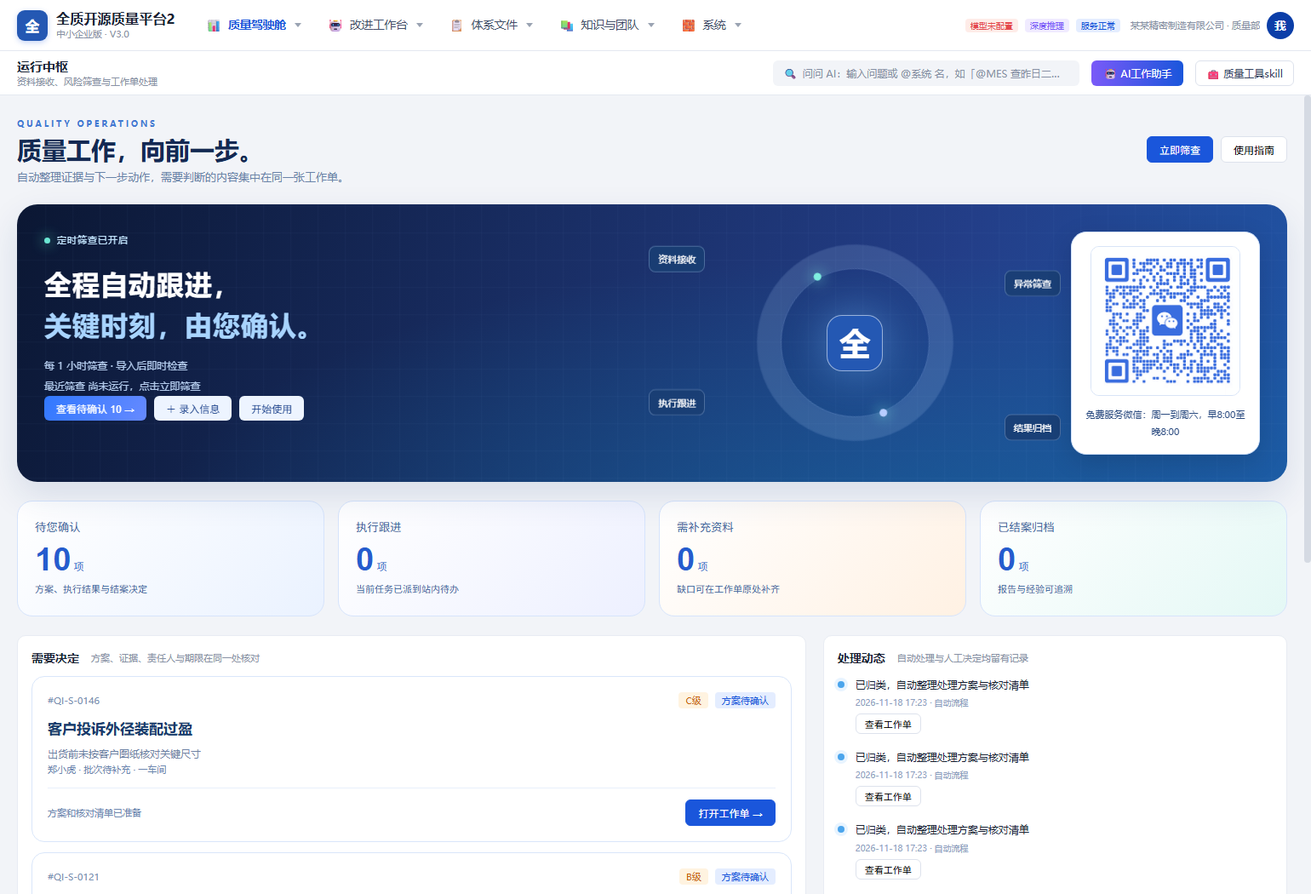
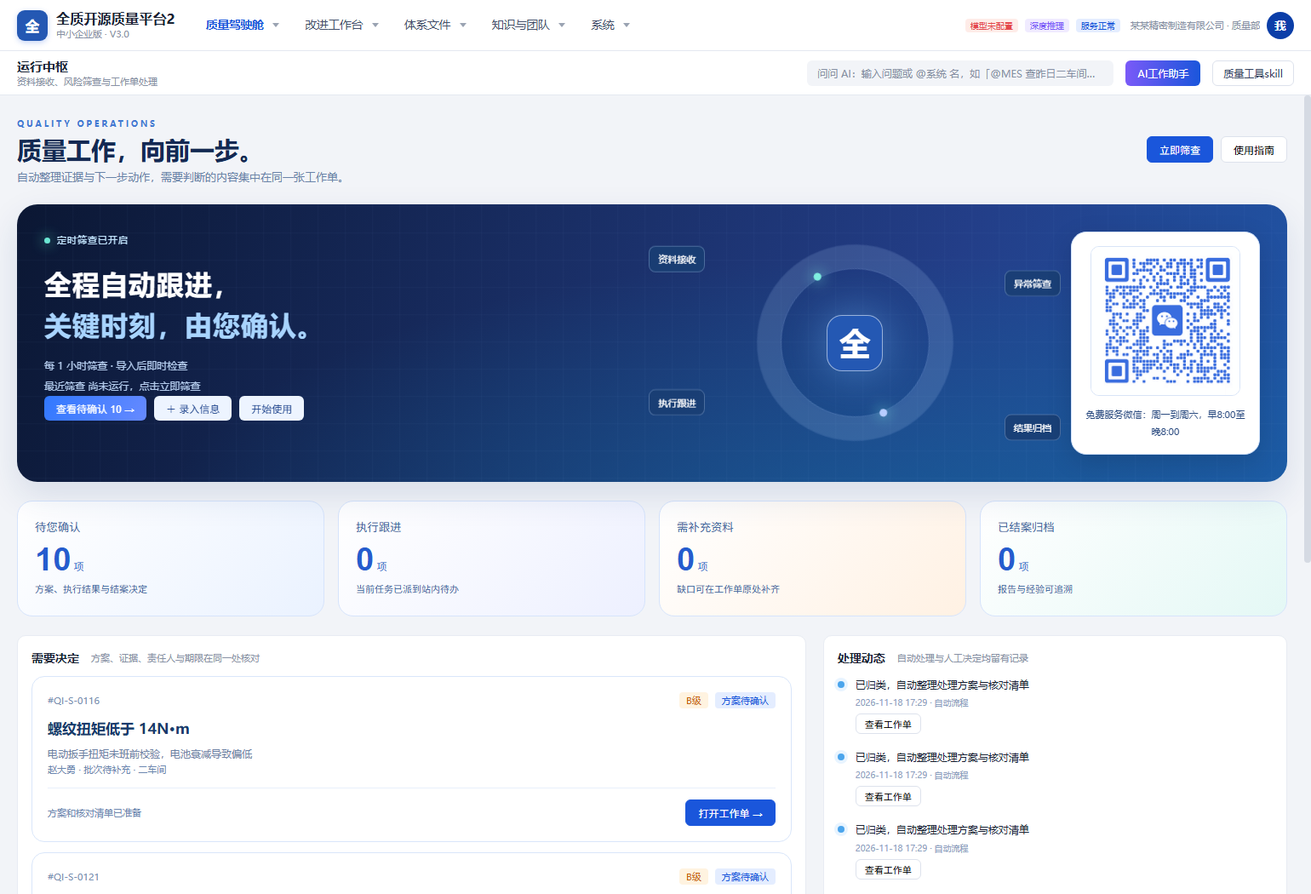
Remove decorative emoji from navigation and controls

Changed region(s): [[0.5922, 0.061, 0.9351, 0.1219], [0.1558, 0.0, 0.4987, 0.0305], [0.0312, 0.7924, 0.187, 0.8838]]

diff --git a/public/index.html b/public/index.html
@@ -22,62 +22,62 @@
 
     <nav class="nav" id="nav">
       <div class="nav-menu" id="navCockpit">
-          <div class="nav-item nav-parent has-active"><span class="ico">📊</span>质量驾驶舱<span class="caret"></span></div>
+          <div class="nav-item nav-parent has-active">质量驾驶舱<span class="caret"></span></div>
           <div class="nav-drop">
-            <div class="nav-item active" data-page="runHub"><span class="ico">🛰</span>运行中枢</div>
-            <div class="nav-item" data-page="confirmFix"><span class="ico">🧭</span>确认与纠正</div>
-            <div class="nav-item" data-page="followUp"><span class="ico">📌</span>执行跟进</div>
-            <div class="nav-item" data-page="intakeTrace"><span class="ico">📥</span>接收与追溯</div>
-            <div class="nav-item" data-page="expStandard"><span class="ico">📚</span>经验与标准</div>
+            <div class="nav-item active" data-page="runHub">运行中枢</div>
+            <div class="nav-item" data-page="confirmFix">确认与纠正</div>
+            <div class="nav-item" data-page="followUp">执行跟进</div>
+            <div class="nav-item" data-page="intakeTrace">接收与追溯</div>
+            <div class="nav-item" data-page="expStandard">经验与标准</div>
           </div>
         </div>
 
       <div class="nav-menu">
-        <div class="nav-item nav-parent"><span class="ico">🤖</span>改进工作台<span class="caret">▾</span></div>
+        <div class="nav-item nav-parent">改进工作台<span class="caret">▾</span></div>
         <div class="nav-drop">
-          <div class="nav-item" data-page="opsWorkbench"><span class="ico">🤖</span>AI 改进工作台<span class="badge blue">AI</span></div>
-          <div class="nav-item" data-page="problem"><span class="ico">⚠</span>质量问题库</div>
-          <div class="nav-item" data-page="eightd"><span class="ico">🧩</span>质量改进项目</div>
-          <div class="nav-item" data-page="qrqc"><span class="ico">⚡</span>QRQC 快速响应</div>
-          <div class="nav-item" data-page="report"><span class="ico">📑</span>报表中心</div>
+          <div class="nav-item" data-page="opsWorkbench">AI 改进工作台</div>
+          <div class="nav-item" data-page="problem">质量问题库</div>
+          <div class="nav-item" data-page="eightd">质量改进项目</div>
+          <div class="nav-item" data-page="qrqc">QRQC 快速响应</div>
+          <div class="nav-item" data-page="report">报表中心</div>
         </div>
       </div>
 
       <!-- 数据分析组：本发行版只提供中小企业版，故此组默认隐藏（保留结构以便需要时启用） -->
       <div class="nav-menu" id="navAnalysis" style="display:none;">
-        <div class="nav-item nav-parent"><span class="ico">📈</span>数据分析<span class="caret">▾</span></div>
+        <div class="nav-item nav-parent">数据分析<span class="caret">▾</span></div>
         <div class="nav-drop">
-          <div class="nav-item" data-page="spc"><span class="ico">📈</span>SPC 智能判异</div>
-          <div class="nav-item" data-page="market"><span class="ico">🌍</span>市场质量与客诉</div>
-          <div class="nav-item" data-page="benefit"><span class="ico">💰</span>改进收益核算</div>
+          <div class="nav-item" data-page="spc">SPC 智能判异</div>
+          <div class="nav-item" data-page="market">市场质量与客诉</div>
+          <div class="nav-item" data-page="benefit">改进收益核算</div>
         </div>
       </div>
 
       <!-- 体系文件（手册 → 程序文件 → 三层次文件） -->
       <div class="nav-menu" id="navQms">
-        <div class="nav-item nav-parent"><span class="ico">📋</span>体系文件<span class="caret">▾</span></div>
+        <div class="nav-item nav-parent">体系文件<span class="caret">▾</span></div>
         <div class="nav-drop">
-          <div class="nav-item" data-page="qmsManual"><span class="ico">📄</span>一键生成手册</div>
-          <div class="nav-item" data-page="qmsProc"><span class="ico">📑</span>一键生成程序文件</div>
-          <div class="nav-item" data-page="qmsTier3"><span class="ico">🗂</span>一键生成三层次文件</div>
+          <div class="nav-item" data-page="qmsManual">一键生成手册</div>
+          <div class="nav-item" data-page="qmsProc">一键生成程序文件</div>
+          <div class="nav-item" data-page="qmsTier3">一键生成三层次文件</div>
         </div>
       </div>
 
       <div class="nav-menu">
-        <div class="nav-item nav-parent"><span class="ico">📚</span>知识与团队<span class="caret">▾</span></div>
+        <div class="nav-item nav-parent">知识与团队<span class="caret">▾</span></div>
         <div class="nav-drop">
-          <div class="nav-item" data-page="knowledge"><span class="ico">📚</span>知识库与经验传承</div>
-          <div class="nav-item" data-page="growth"><span class="ico">🎓</span>员工成长中心</div>
+          <div class="nav-item" data-page="knowledge">知识库与经验传承</div>
+          <div class="nav-item" data-page="growth">员工成长中心</div>
         </div>
       </div>
 
       <div class="nav-menu">
-        <div class="nav-item nav-parent"><span class="ico">🧱</span>系统<span class="caret">▾</span></div>
+        <div class="nav-item nav-parent">系统<span class="caret">▾</span></div>
         <div class="nav-drop">
-          <div class="nav-item" data-page="arch"><span class="ico">🧱</span>DeepSeek 插件架构</div>
-          <div class="nav-item" data-page="mobile"><span class="ico">📱</span>移动端适配</div>
-          <div class="nav-item" data-page="audit"><span class="ico">🔍</span>审计日志</div>
-          <div class="nav-item" data-page="settings"><span class="ico">⚙</span>系统设置</div>
+          <div class="nav-item" data-page="arch">DeepSeek 插件架构</div>
+          <div class="nav-item" data-page="mobile">移动端适配</div>
+          <div class="nav-item" data-page="audit">审计日志</div>
+          <div class="nav-item" data-page="settings">系统设置</div>
         </div>
       </div>
     </nav>
@@ -96,9 +96,9 @@
         <div class="topbar-title" id="pgTitle">质量驾驶舱</div>
         <div class="topbar-sub" id="pgSub">加载中…</div>
       </div>
-      <div class="searchbox" data-act="openSearch"><span class="ic">🔍</span><span class="tx">问问 AI：输入问题或 @系统 名，如「@MES 查昨日二车间报废」</span></div>
-      <div class="ai-btn" data-act="goto" data-args='{"page":"aiwb"}'>🤖 AI工作助手</div>
-      <div class="qt-btn" data-act="qtOpen">🧰 质量工具skill</div>
+      <div class="searchbox" data-act="openSearch"><span class="tx">问问 AI：输入问题或 @系统 名，如「@MES 查昨日二车间报废」</span></div>
+      <div class="ai-btn" data-act="goto" data-args='{"page":"aiwb"}'>AI工作助手</div>
+      <div class="qt-btn" data-act="qtOpen">质量工具skill</div>
     </div>
     <div class="content" id="content"></div>
   </div>
@@ -107,7 +107,7 @@
 <!-- 质量工具菜单（三列） -->
 <div class="qt-overlay" id="qtOverlay">
   <div class="qt-panel">
-    <div class="qt-head"><span class="t">🧰 质量工具 skill</span><span class="s">点击即用 · 数据类工具由统计引擎实算</span><span class="dm-close" style="margin-left:auto;" data-act="qtClose">✕</span></div>
+    <div class="qt-head"><span class="t">质量工具 skill</span><span class="s">点击即用 · 数据类工具由统计引擎实算</span><span class="dm-close" style="margin-left:auto;" data-act="qtClose">✕</span></div>
     <div class="qt-grid" id="qtGrid"></div>
     <div class="qt-foot">带 <b>∑</b> 标记的工具会真实计算并返回结果（可用平台已有数据或您输入的数据）；其余工具由 AI 智能体引导完成。</div>
   </div>

diff --git a/public/js/pages-system.js b/public/js/pages-system.js
@@ -87,7 +87,7 @@
         `<div class="form-row"><div class="fl">当前模型<small>插件默认锁定 DeepSeek-V4.1-Flash；不可用时自动回落 Harness 当前模型，也可用环境变量 QIP_LLM_MODEL 覆盖</small></div><div class="fc"><b>${esc(llm.modelLabel || '未连接')}</b></div></div>
         <div class="form-row"><div class="fl">调用链路<small>真实模型调用，不是预设话术</small></div><div class="fc"><code>页面 → 插件 Host 半 → ctx.llm → ${esc(llm.provider || 'DeepSeek')} / ${esc(llm.model || '')}</code></div></div>
         <div class="form-row"><div class="fl">说明</div><div class="fc" style="color:#5e6b85;line-height:1.9;">${esc(llm.description || '')}<br>本插件不需要单独填写 API Key 或 Base URL：模型接入、密钥与账号统一由 Harness 管理，插件只负责调用。</div></div>
-        <div style="margin-top:12px;display:flex;gap:8px;">${act('🔌 测试连通性（真实调用一次模型）', 'testLlm', {}, 'btn btn-ai')}</div>
+        <div style="margin-top:12px;display:flex;gap:8px;">${act('测试连通性（真实调用一次模型）', 'testLlm', {}, 'btn btn-ai')}</div>
         ${SetState.testing ? '<div class="test-steps"><div class="empty"><span class="spin"></span>　正在测试（会真实调用模型，约 5~20 秒）…</div></div>' : ''}
         ${SetState.steps ? '<div class="test-steps">' + SetState.steps.map((st) => `<div class="test-step"><span class="${st.ok ? 'ts-ok' : 'ts-fail'}">${st.ok ? '✓' : '✗'}</span><div><b>${esc(st.name)}</b><div style="color:#5e6b85;margin-top:2px;">${esc(st.detail)}</div><div style="color:#8791a5;font-size:11px;">${st.ms}ms</div></div></div>`).join('') + '</div>' : ''}`)}
 
@@ -104,7 +104,7 @@
           判异预警：<b>ABC 级质量问题实时推送</b><br>
           报告草稿默认汇报：<b>质量部部长</b>
         </div></div>
-        <div style="margin-top:12px;">${act('💾 保存护栏设置', 'saveSettings', { section: 'agent' }, 'btn btn-primary')}</div>`)}
+        <div style="margin-top:12px;">${act('保存护栏设置', 'saveSettings', { section: 'agent' }, 'btn btn-primary')}</div>`)}
 
       ${card('③ 插件总线配置', '本地数据仓 ↔ HTTP 直连 可切换',
         table(['插件', '说明', '模式', '启用', '接口地址', ''],
@@ -128,13 +128,13 @@
           <b>表行数：</b>${Object.entries(dbStatus.tables || {}).map(([k, v]) => k + ' ' + v).join(' · ')}　（另有 JSON 快照用于备份）
         </div>` : ''}
         <div style="display:flex;gap:8px;flex-wrap:wrap;margin-bottom:12px;">
-          ${act('📥 导入 Excel / CSV（测量数据）', 'importFile', { target: 'measurements' }, 'btn btn-primary')}
-          ${act('📥 导入问题清单', 'importFile', { target: 'issues' }, 'btn')}
-          ${act('📥 导入 AI 质检缺陷', 'importFile', { target: 'defects' }, 'btn')}
+          ${act('导入 Excel / CSV（测量数据）', 'importFile', { target: 'measurements' }, 'btn btn-primary')}
+          ${act('导入问题清单', 'importFile', { target: 'issues' }, 'btn')}
+          ${act('导入 AI 质检缺陷', 'importFile', { target: 'defects' }, 'btn')}
         </div>
         <div style="display:flex;gap:8px;flex-wrap:wrap;">
-          ${act('🔄 重建初始数据', 'resetData', {}, 'btn')}
-          ${act('🧹 清空业务数据（保留模型配置）', 'clearData', {}, 'btn')}
+          ${act('重建初始数据', 'resetData', {}, 'btn')}
+          ${act('清空业务数据（保留模型配置）', 'clearData', {}, 'btn')}
         </div>
         <div style="font-size:11.5px;color:#8791a5;margin-top:10px;line-height:1.9;">
           <b>导入格式说明：</b>Excel 第一行为表头，平台会自动识别中文/英文字段名（如「时间/测量值/特性编号/产品/车间/批号/供应商/班次/操作者/VIN」）。

diff --git a/public/js/tool-wizards.js b/public/js/tool-wizards.js
@@ -169,7 +169,7 @@
 
   /** 结果区底部的两个动作按钮 */
   function resultTail(tool, args) {
-    return `<div style="margin-top:12px;display:flex;gap:8px;">${act('让 AI 解读这个结果', 'wzInterpret', { tool: tool, args: JSON.stringify(args).slice(0, 1500) }, 'btn btn-ai')}${act('⬇ 下载结果 CSV', 'wzExport', {}, 'btn')}</div>`;
+    return `<div style="margin-top:12px;display:flex;gap:8px;">${act('让 AI 解读这个结果', 'wzInterpret', { tool: tool, args: JSON.stringify(args).slice(0, 1500) }, 'btn btn-ai')}${act('下载结果 CSV', 'wzExport', {}, 'btn')}</div>`;
   }
 
   /* ---------------- 结果导出 ---------------- */
@@ -330,7 +330,7 @@
         return `<div class="form-row"><div class="fl">${esc(f.label)}${f.required ? ' <span style="color:#e5484d;">*</span>' : ''}</div><div class="fc">${ctrl}</div></div>`;
       }).join('');
     modal({
-      width: 'wide', title: '🧰 ' + w.title, sub: brand() + ' · 质量工具',
+      width: 'wide', title: w.title, sub: brand() + ' · 质量工具',
       body: `<div id="wzForm">${body}</div><div id="wzResult" style="margin-top:16px;"></div>`,
       footer: `${act('关闭', '__closeModal', {}, 'btn')}${act('使用 AI 智能体完成', 'wzAi', { key }, 'btn')}${act('▶ 计算', 'wzRun', { key }, 'btn btn-primary')}`,
     });
@@ -461,23 +461,6 @@
     return String(s || '').split(/[\s,，;；\n\t]+/).map((x) => Number(x)).filter((x) => Number.isFinite(x));
   }
 
-  // 每个 skill 一个独立图标（按名称关键字匹配，避免全部用同一个机器人脸）
-  // 顺序即优先级：长词/专有词写在前面，避免「因果图根因分析」被「根因」先匹配
-  const ICON_RULES = [
-    [/8D/, '🎯'], [/FMEA|失效模式/, '⚠'], [/标准条款|条款检索/, '📖'], [/海龟/, '🐢'], [/质量成本/, '💰'],
-    [/甘特/, '📅'], [/过程能力|Cpk|Ppk/, '📐'], [/人机料法环|4M/, '🧩'], [/变化点/, '🔄'], [/5W2H/, '🧾'],
-    [/因果图|鱼骨/, '🐟'], [/5Why|根因/, '❓'], [/假设检验/, '⚖'], [/方差/, '📊'], [/回归/, '📈'],
-    [/检查表/, '✅'], [/分层/, '🗂'], [/排列图|帕累托/, '📶'], [/直方图/, '🔔'], [/控制图|SPC/, '📉'],
-    [/散点/, '✳'], [/关联图/, '🕸'], [/系统图/, '🌳'], [/矩阵数据分析/, '🧮'], [/矩阵图/, '▦'],
-    [/PDPC/, '🚦'], [/箭条/, '🏹'], [/KJ/, '🗃'], [/DMAIC|六西格玛/, '🌀'], [/GR&R|GRR/, '📏'],
-    [/MSA|偏倚|线性|稳定性/, '🎚'], [/GD&T|几何尺寸|形位公差/, '🔧'], [/QFD|质量功能展开|质量屋/, '🏠'], [/DOE|试验设计/, '🧬'],
-  ];
-  function iconFor(name) {
-    const n = String(name || '');
-    for (const [re, ico] of ICON_RULES) if (re.test(n)) return ico;
-    return '🧰';
-  }
-
   // 两套版式提供同一套工具（34 项），不做删减、也不打角标
   function menuItems() {
     return [].concat(QTools.col1 || [], QTools.col2 || [], QTools.col3 || []);
@@ -487,7 +470,7 @@
     const el = document.getElementById('qtGrid');
     if (!el) return;
     const items = menuItems();
-    el.innerHTML = items.map((t) => `<div class="qt-item" data-act="qtPick" data-args='${esc(JSON.stringify(t))}' title="${esc(t.name)}"><span class="qt-ico">${iconFor(t.name)}</span><span class="qt-nm">${esc(t.name)}</span>${t.w ? '<span class="qt-sum">∑</span>' : ''}</div>`).join('')
+    el.innerHTML = items.map((t) => `<div class="qt-item" data-act="qtPick" data-args='${esc(JSON.stringify(t))}' title="${esc(t.name)}"><span class="qt-nm">${esc(t.name)}</span>${t.w ? '<span class="qt-sum">∑</span>' : ''}</div>`).join('')
       + (items.length ? '' : '<div class="empty">当前版式无可用工具</div>');
   }
 

diff --git a/public/app.css b/public/app.css
@@ -19,7 +19,6 @@ a { color:#1a56db; text-decoration:none; }
 .nav-item { display:flex; align-items:center; gap:7px; padding:8px 14px; border-radius:9px; cursor:pointer; color:#44506b; font-size:13.5px; white-space:nowrap; line-height:1.4; transition:background .15s,color .15s; }
 .nav-item:hover { background:#f2f4f8; color:#1a2233; }
 .nav-item.active { background:#e8f0ff; color:#1a56db; font-weight:600; }
-.nav-item .ico { font-size:14px; }
 .nav-menu { position:relative; }
 .nav-parent .caret { font-size:0; line-height:0; width:0; height:0; border-left:4px solid transparent; border-right:4px solid transparent; border-top:5px solid #9aa3b2; margin-left:4px; transition:transform .15s, border-top-color .15s; }
 .nav-menu.open > .nav-parent .caret { transform:rotate(180deg); border-top-color:#1a2233; }
@@ -52,7 +51,6 @@ a { color:#1a56db; text-decoration:none; }
 .topbar-sub { font-size:11px; color:#8791a5; }
 .searchbox { margin-left:auto; flex:0 1 360px; min-width:150px; background:#f2f4f8; border-radius:6px; padding:7px 12px; color:#8791a5; font-size:12px; display:flex; gap:6px; align-items:center; cursor:pointer; white-space:nowrap; overflow:hidden; }
 .searchbox:hover { background:#e9edf5; }
-.searchbox .ic { flex-shrink:0; }
 .searchbox .tx { overflow:hidden; text-overflow:ellipsis; white-space:nowrap; min-width:0; }
 .ai-btn { background:linear-gradient(90deg,#7a5af8,#1a56db); color:#fff; border-radius:6px; padding:7px 14px; font-size:12px; cursor:pointer; display:flex; gap:6px; align-items:center; white-space:nowrap; }
 .qt-btn { background:#fff; color:#33415c; border:1px solid #dde2ec; border-radius:6px; padding:6px 12px; font-size:12px; cursor:pointer; display:flex; gap:6px; align-items:center; flex-shrink:0; }
@@ -321,7 +319,6 @@ select.inp { background:#fff; }
 .qt-grid { display:grid; grid-template-columns:repeat(auto-fill,minmax(214px,1fr)); gap:6px 10px; }
 .qt-item { display:flex; align-items:center; gap:7px; font-size:11.5px; color:#33415c; background:#f8fafc; border:1px solid #eef1f6; border-radius:6px; padding:6px 8px; cursor:pointer; transition:all .13s; }
 .qt-item:hover { border-color:#1a56db; background:#e4edff; color:#0b3ea8; }
-.qt-ico { width:18px; flex:0 0 18px; text-align:center; font-size:13px; line-height:1; }
 .qt-nm { flex:1; overflow:hidden; text-overflow:ellipsis; white-space:nowrap; }
 .qt-sum { flex:0 0 auto; font-size:10px; font-weight:700; color:#1a56db; background:#e8f0ff; border-radius:4px; padding:1px 4px; }
 .qt-foot { font-size:11px; color:#8791a5; margin-top:8px; text-align:center; }

diff --git a/public/js/pages-core.js b/public/js/pages-core.js
@@ -58,8 +58,8 @@
             <span class="t">对话式改进工作台</span>
             <span class="s" id="chatMeta">${Chat.messages.length ? Chat.messages.length + ' 条消息' : '新会话'}</span>
             <span style="margin-left:auto;display:flex;gap:6px;">
-              ${act('🗑 清空', 'chatClear', {}, 'btn btn-sm')}
-              ${act('📂 历史', 'chatHistory', {}, 'btn btn-sm')}
+              ${act('清空', 'chatClear', {}, 'btn btn-sm')}
+              ${act('历史', 'chatHistory', {}, 'btn btn-sm')}
             </span>
           </div>
           <div class="chat-body" id="chatBody"></div>
@@ -72,7 +72,7 @@
               <span class="quick-cmd" data-act="quickAsk" data-args='${esc(JSON.stringify({ q: '扫描当前质量风险并给出今天最该处理的 3 件事' }))}'>风险扫描＋今日重点</span>
               <span class="spacer"></span>
               <span id="chatState" style="font-size:11px;color:#8791a5;"></span>
-              ${act('⏹ 停止', 'chatStop', {}, 'btn btn-sm')}
+              ${act('停止', 'chatStop', {}, 'btn btn-sm')}
               ${act('发送', 'chatSend', {}, 'btn btn-primary')}
             </div>
           </div>
@@ -168,7 +168,7 @@
       <div class="imp-hint">
         <span class="big">📱 可以手机拍拍拍导入问题</span>
         <span class="imp-sub">现场拿手机拍照片/拍视频，顺手说一句现象，AI 自动识别并录入；也支持直接导入 Excel / CSV 问题清单。</span>
-        ${act('📥 导入问题（Excel / CSV）', 'importFile', { target: 'issues' }, 'btn btn-primary btn-sm')}
+        ${act('导入问题（Excel / CSV）', 'importFile', { target: 'issues' }, 'btn btn-primary btn-sm')}
       </div>
       <div class="grid g4" style="margin-bottom:14px;">
         ${kpi({ ico: '📋', label: '问题总数', value: rows.length, delta: '本月新增 ' + rows.filter((r) => (r.createdAt || '').slice(0, 7) === new Date().toISOString().slice(0, 7)).length, act: 'filterIssues', args: {} })}

diff --git a/public/js/pages-qms.js b/public/js/pages-qms.js
@@ -127,13 +127,13 @@
       '<div style="margin-top:14px;">' +
         card('增加信息', '把平台还不知道的情况写成一段话，让 AI 判断该改什么',
           input('nmNote', noteText, { type: 'textarea', rows: 3, placeholder: '例如：我们有两个厂区，一厂冲压、二厂装配；产品分内销与出口两条线，希望问题库里能区分。' }) +
-          '<div class="act-bar" style="margin-top:10px;">' + act('🤖 让 AI 判断如何调整', 'aiNaming', {}, 'btn btn-ai') +
+          '<div class="act-bar" style="margin-top:10px;">' + act('让 AI 判断如何调整', 'aiNaming', {}, 'btn btn-ai') +
           '<span style="font-size:11.5px;color:#8791a5;">AI 只给「建议改法」，您看过之后点「填入表单」再保存才会真正改数据。</span></div>' +
           (noteText ? '<div class="tips-line">上次保存的说明：' + esc(String(noteText).slice(0, 160)) + '</div>' : '')) +
       '</div>' +
       '<div class="act-bar" style="margin-top:14px;">' +
-        act('💾 保存并应用到数据', 'saveNaming', {}, 'btn btn-primary') +
-        act('↩ 恢复默认名称', 'resetNaming', {}, 'btn') +
+        act('保存并应用到数据', 'saveNaming', {}, 'btn btn-primary') +
+        act('恢复默认名称', 'resetNaming', {}, 'btn') +
         '<span style="font-size:11.5px;color:#8791a5;">保存后可随时改回。</span>' +
       '</div>' +
       '<div style="height:14px;"></div>';
@@ -213,7 +213,7 @@
         </div>
       </div>
       <div class="act-bar">
-        ${act('💾 暂存草稿', 'qmsDraft', {}, 'btn')}
+        ${act('暂存草稿', 'qmsDraft', {}, 'btn')}
         ${act('✓ 填写完毕，去生成手册', 'qmsComplete', { go: 'qmsManual' }, 'btn btn-primary')}
         ${act('前往「一键生成程序文件」', 'goto', { page: 'qmsProc' }, 'btn')}
       </div>

diff --git a/public/js/pages-analytics.js b/public/js/pages-analytics.js
@@ -37,7 +37,7 @@
         ${card('车间语音报问题', '自然语言 → 结构化问题单',
           `<div style="font-size:12.5px;color:#5e6b85;line-height:1.9;margin-bottom:10px;">现场只需一句话，AI 自动识别<b>产品 / 车间 / 工位 / 缺陷类别 / 等级</b>，回填 MES 工位批次，并匹配相似历史案例。例如：<br>
             <span style="color:#1a56db;">「四车间三线右后门关门声发闷，连续第三台」</span></div>
-          ${act('🎤 试一条（预置话术）', 'voiceReport', { text: '四车间三线右后门关门声发闷，连续第三台' }, 'btn btn-ai')}
+          ${act('试一条（预置话术）', 'voiceReport', { text: '四车间三线右后门关门声发闷，连续第三台' }, 'btn btn-ai')}
           ${act('输入自定义描述', 'voiceReport', {}, 'btn')}`)}
         ${card('QRQC 有效性指标', '真实统计',
           infoGrid([
@@ -245,7 +245,7 @@
         table(['编号', '类型', '标题', '期间', '格式', '大小', '状态', '生成时间', ''],
           rows.map((r) => ({
             cells: ['<b>' + esc(r.id) + '</b>', tag(r.type, 'blue'), esc(r.title), esc(r.period || ''), esc(r.format || ''), r.size ? Math.round(r.size / 1024) + ' KB' : '—', r.status === 'published' ? tag('已发布', 'green') : tag('草稿', 'gray'), dt(r.createdAt),
-              r.downloadUrl ? '<a class="btn btn-sm" href="' + esc(r.downloadUrl) + '">⬇ 下载</a>' : ''],
+              r.downloadUrl ? '<a class="btn btn-sm" href="' + esc(r.downloadUrl) + '">下载</a>' : ''],
           })), { empty: '还没有生成过报表，点击上方卡片生成' }))}
       ${card('数据导出', '导出真实数据为 Excel / CSV',
         `<div style="display:flex;gap:8px;flex-wrap:wrap;">

diff --git a/public/app.js b/public/app.js
@@ -514,7 +514,7 @@ global.Scale = {
                  <span class="big">📱 可以手机拍拍拍导入问题</span>
                  <span class="imp-sub">批量时也可直接用 Excel / CSV 一键导入，表头写「问题描述、产品、车间、工位、来源、等级、责任人」即可。</span>
                </div>`,
-        footer: `${act('取消', '__closeModal', {}, 'btn')}${act('📥 导入问题（Excel / CSV）', 'importFile', { target: 'issues' }, 'btn')}${act('保存并查重', 'issueCreate', {}, 'btn btn-primary')}`,
+        footer: `${act('取消', '__closeModal', {}, 'btn')}${act('导入问题（Excel / CSV）', 'importFile', { target: 'issues' }, 'btn')}${act('保存并查重', 'issueCreate', {}, 'btn btn-primary')}`,
       });
     },
     issueCreate: async () => {
@@ -769,7 +769,7 @@ global.Scale = {
         modal({
           width: 'narrow', title: '✅ 报告已生成', sub: res.报告标题,
           body: infoGrid([['报告编号', res.报告编号], ['格式', res.格式], ['文件大小', res.文件大小], ['章节', (res.章节 || []).join(' / '), true], ['内容摘要', esc(res.内容摘要 || ''), true]]) +
-            `<div style="margin-top:12px;"><a class="btn btn-primary" href="${esc(res.下载链接)}">⬇ 下载 Word 文档</a></div>`,
+            `<div style="margin-top:12px;"><a class="btn btn-primary" href="${esc(res.下载链接)}">下载 Word 文档</a></div>`,
           footer: `${act('关闭', '__closeModal', {}, 'btn')}`,
         });
         refresh();

diff --git a/安装说明.md b/安装说明.md
@@ -5,7 +5,7 @@
 在当前使用的 DSH 插件管理器中添加本地 .tgz 发布包或 GitHub Release 下载地址；CLI web profile 使用：
 
 ```sh
-dsh plugin --profile web add https://github.com/total-quality/dsh-total-quality-v3/releases/download/v3.0.3/dsh-total-quality-v3.tgz
+dsh plugin --profile web add https://github.com/total-quality/dsh-total-quality-v3/releases/download/v3.0.4/dsh-total-quality-v3.tgz
 ```
 
 本地目录安装亦可使用 `dsh plugin --profile web add <插件目录绝对路径>`。安装成功后按宿主提示加载，侧栏入口为“全质开源质量平台2”，图标为蓝底白字的“全”字。

diff --git a/本机独立安装说明.md b/本机独立安装说明.md
@@ -5,7 +5,7 @@
 在当前使用的 DSH 插件管理器中添加本地 .tgz 发布包或 GitHub Release 下载地址；CLI web profile 使用：
 
 ```sh
-dsh plugin --profile web add https://github.com/total-quality/dsh-total-quality-v3/releases/download/v3.0.3/dsh-total-quality-v3.tgz
+dsh plugin --profile web add https://github.com/total-quality/dsh-total-quality-v3/releases/download/v3.0.4/dsh-total-quality-v3.tgz
 ```
 
 本地目录安装亦可使用 `dsh plugin --profile web add <插件目录绝对路径>`。安装成功后按宿主提示加载，侧栏入口为“全质开源质量平台2”，图标为蓝底白字的“全”字。

diff --git a/README.md b/README.md
@@ -30,7 +30,7 @@
 在 DeepSeek Harness 的插件管理器中添加本仓库的 Release 包，或在已安装 DSH 与 pnpm 的终端执行：
 
 ```sh
-dsh plugin --profile web add https://github.com/total-quality/dsh-total-quality-v3/releases/download/v3.0.3/dsh-total-quality-v3.tgz
+dsh plugin --profile web add https://github.com/total-quality/dsh-total-quality-v3/releases/download/v3.0.4/dsh-total-quality-v3.tgz
 ```
 
 安装到当前使用的 profile 后，按宿主提示加载，点击侧栏“全质开源质量平台2”。无需再启动占用同一端口的 DSH 进程。Desktop 用户应安装到其实际使用的 profile。

diff --git a/CHANGELOG.md b/CHANGELOG.md
@@ -1,5 +1,10 @@
 # Changelog
 
+## 3.0.4
+
+### Changed
+- 顶部导航、下拉菜单及质量工具入口采用纯文字，去除操作按钮前的装饰表情。
+
 ## 3.0.3
 
 ### Changed
